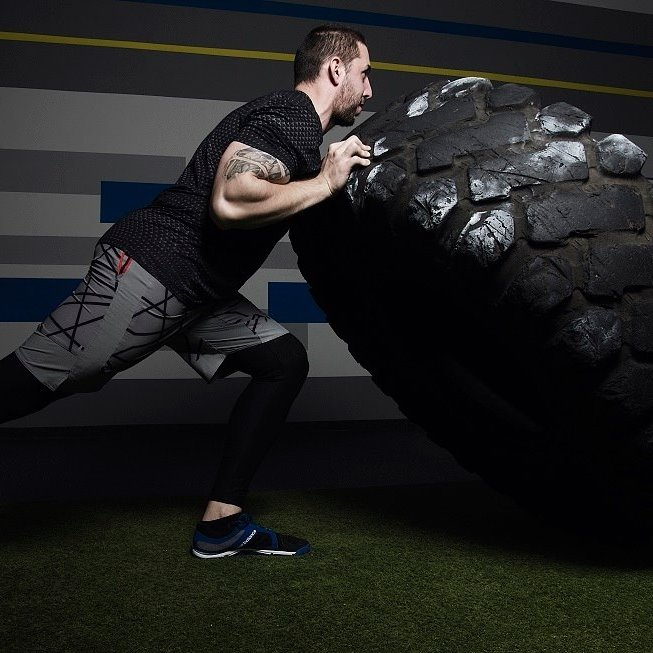
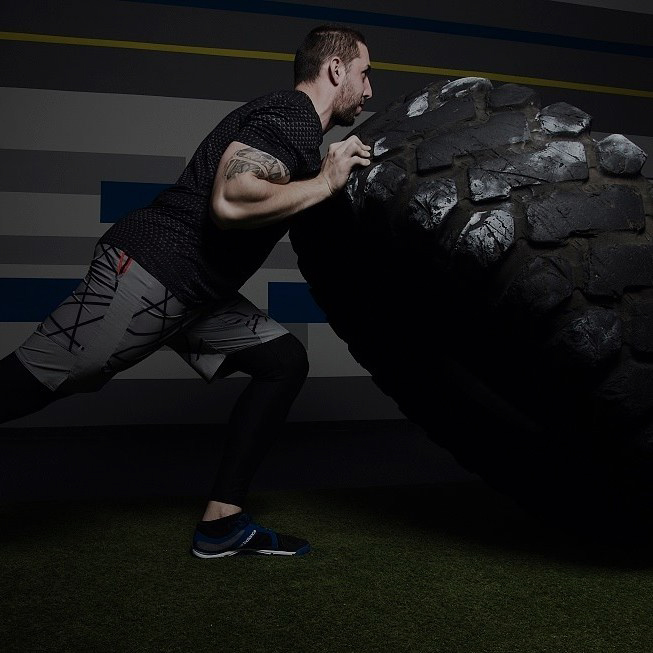
Change the images in the activity section with the new once from Marti.

diff --git a/public/index.html b/public/index.html
@@ -106,13 +106,13 @@
           <p class="bmv-activity-subtitle">Заедно е весело</p>
           <a class="btn btn-success bmv-activity-subtitle" href="#schedule">График</a>
         </div>
-        <div data-aos="fade-right" data-aos-delay="400" class="col" style="background-image: url('./assets/images/activity-types/groups.jpg')"></div>
-        <div data-aos="fade-right" data-aos-delay="600" class="col" style="background-image: url('./assets/images/activity-types/groups.2.jpg')"></div>
-        <div data-aos="fade-right" data-aos-delay="800" class="col" style="background-image: url('./assets/images/activity-types/groups.jpg')"></div>
+        <div data-aos="fade-right" data-aos-delay="400" class="col" style="background-image: url('./assets/images/activity-types/groups.dark.jpg')"></div>
+        <div data-aos="fade-right" data-aos-delay="600" class="col" style="background-image: url('./assets/images/activity-types/barbell-bodybuilding-effort-703016.sm.dark.jpg')"></div>
+        <div data-aos="fade-right" data-aos-delay="800" class="col" style="background-image: url('./assets/images/activity-types/athletes-endurance-energy-685534.sm.dark.jpg')"></div>
       </div>
       <div class="row">
-        <div data-aos="fade-right" data-aos-delay="200" class="col" style="background-image: url('./assets/images/activity-types/bar.jpg')"></div>
-        <div data-aos="fade-right" data-aos-delay="400" class="col" style="background-image: url('./assets/images/activity-types/personal-training.jpg')"></div>
+        <div data-aos="fade-right" data-aos-delay="200" class="col" style="background-image: url('./assets/images/activity-types/active-athlete-barbell-703014.sm.dark.jpg')"></div>
+        <div data-aos="fade-right" data-aos-delay="400" class="col" style="background-image: url('./assets/images/activity-types/barbell-barbells-crossfit-791762.sm.dark.jpg')"></div>
         <div data-aos="fade-right" data-aos-delay="600" class="col" style="background-image: url('./assets/images/activity-types/kos.jpg')"></div>
         <div data-aos="fade-right" data-aos-delay="800" class="col bmv-text-letter-spacing-xs bmv-activity-text">
             <h2 class="bmv-activity-title">Персонални тренировки</h2>
